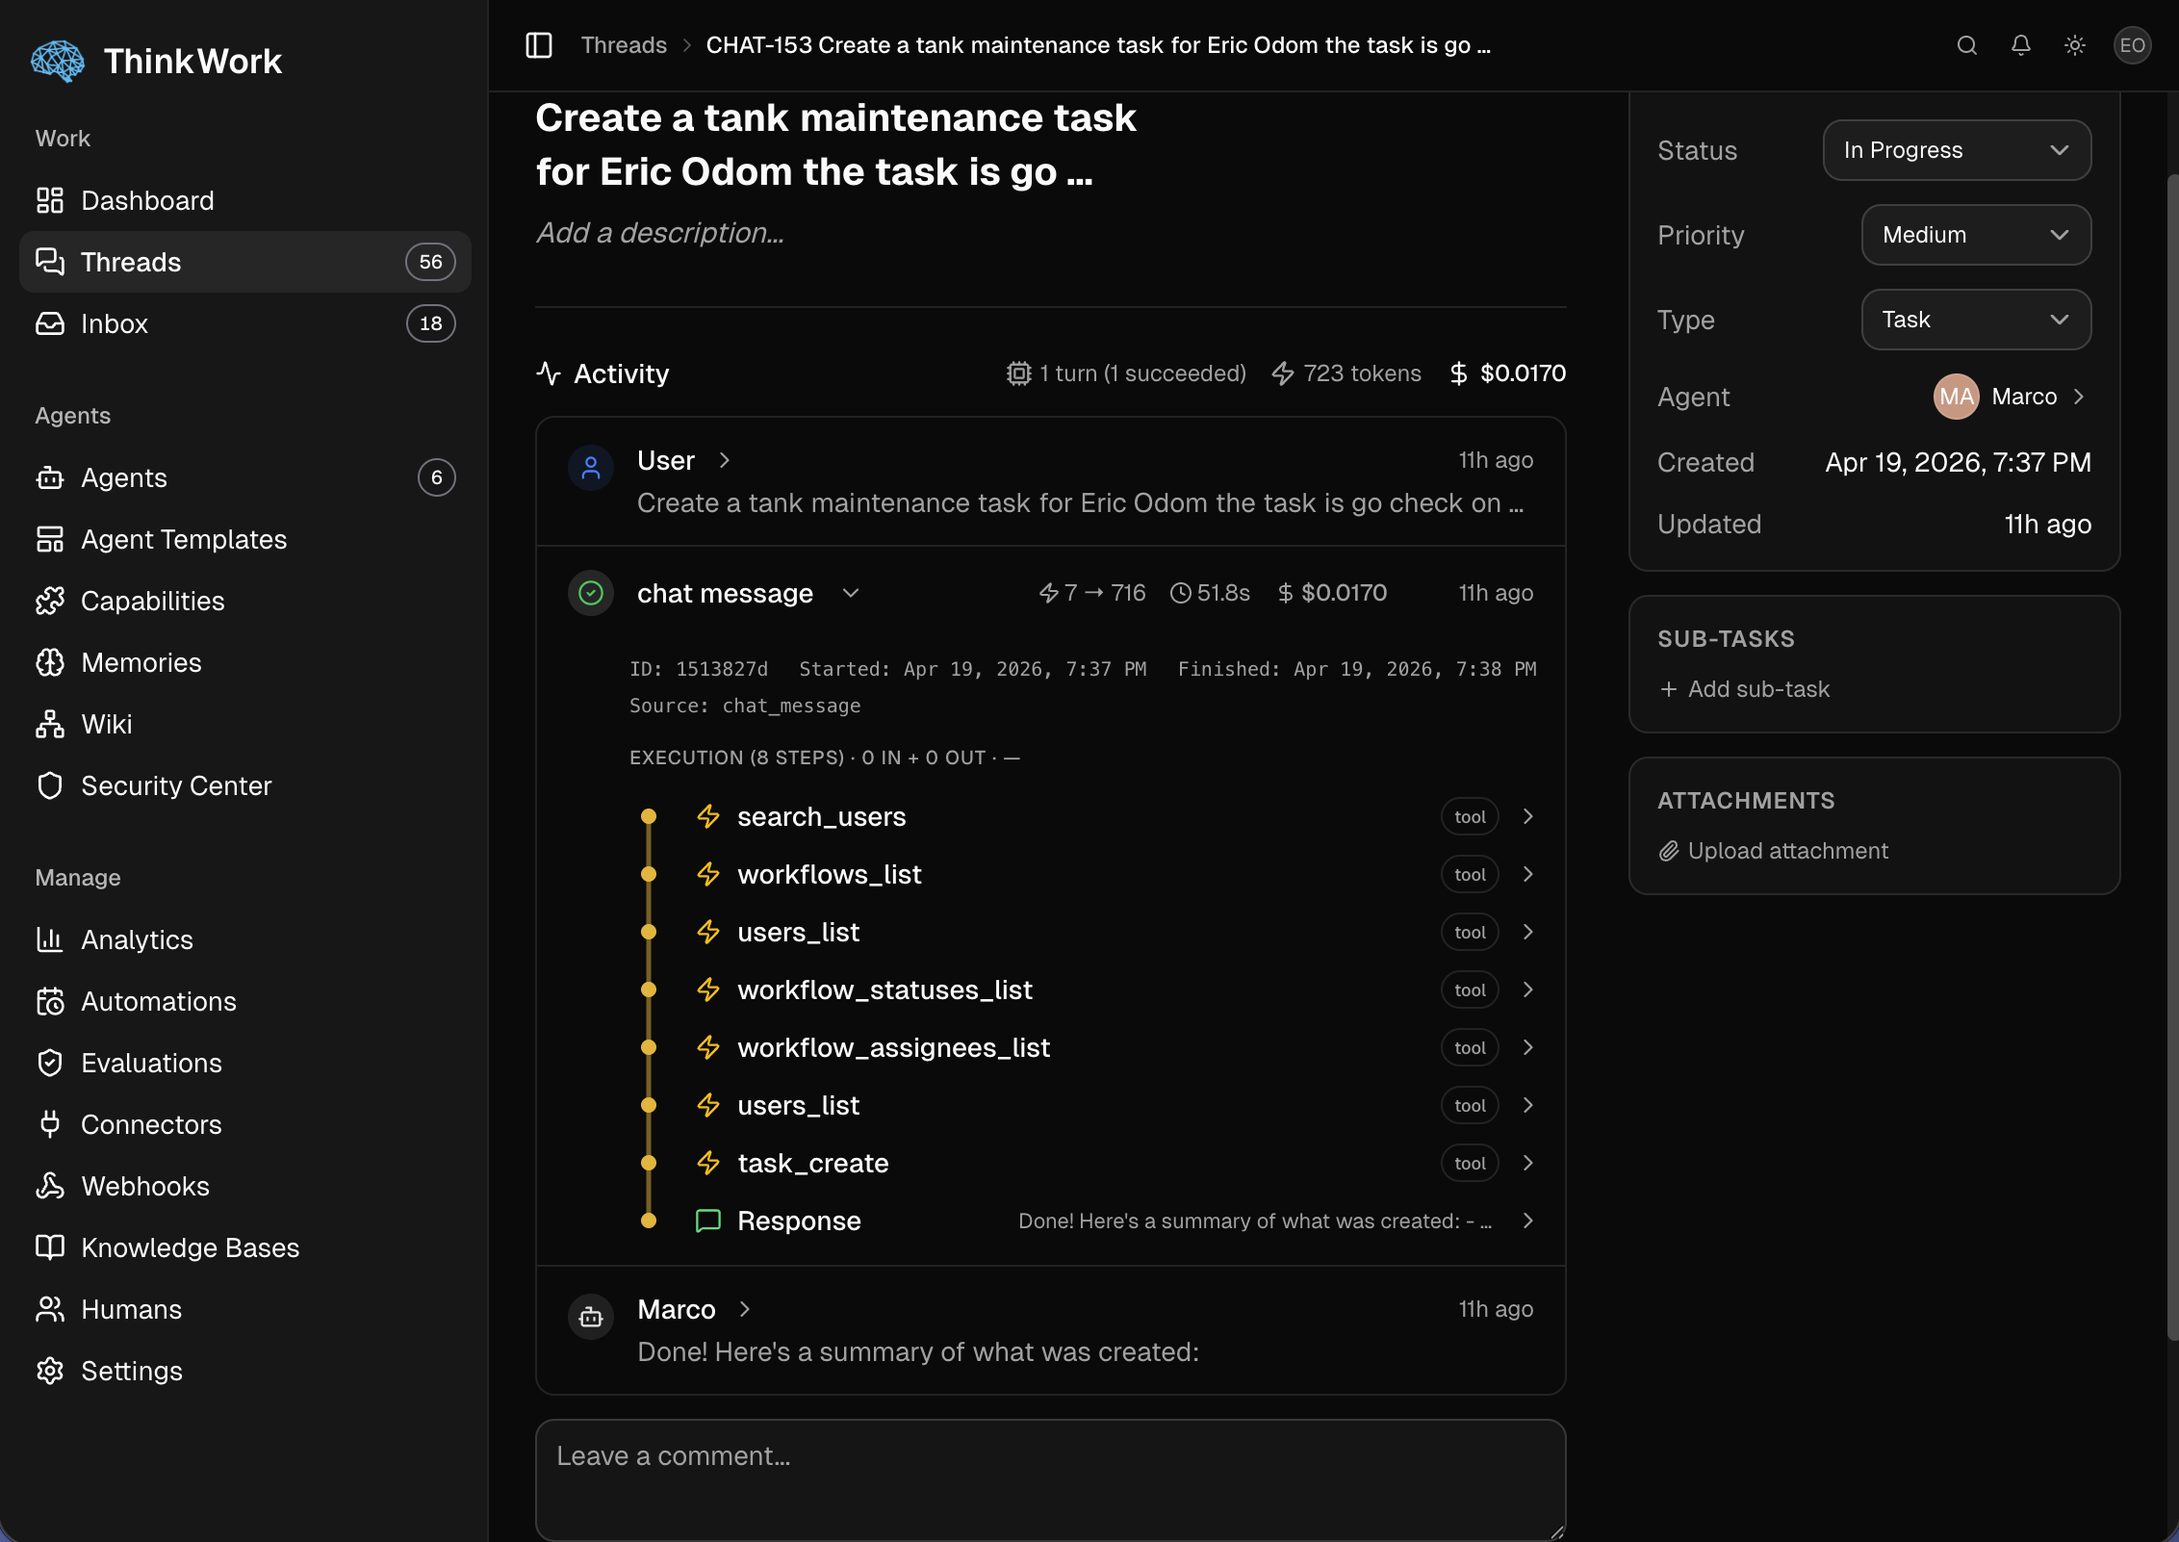
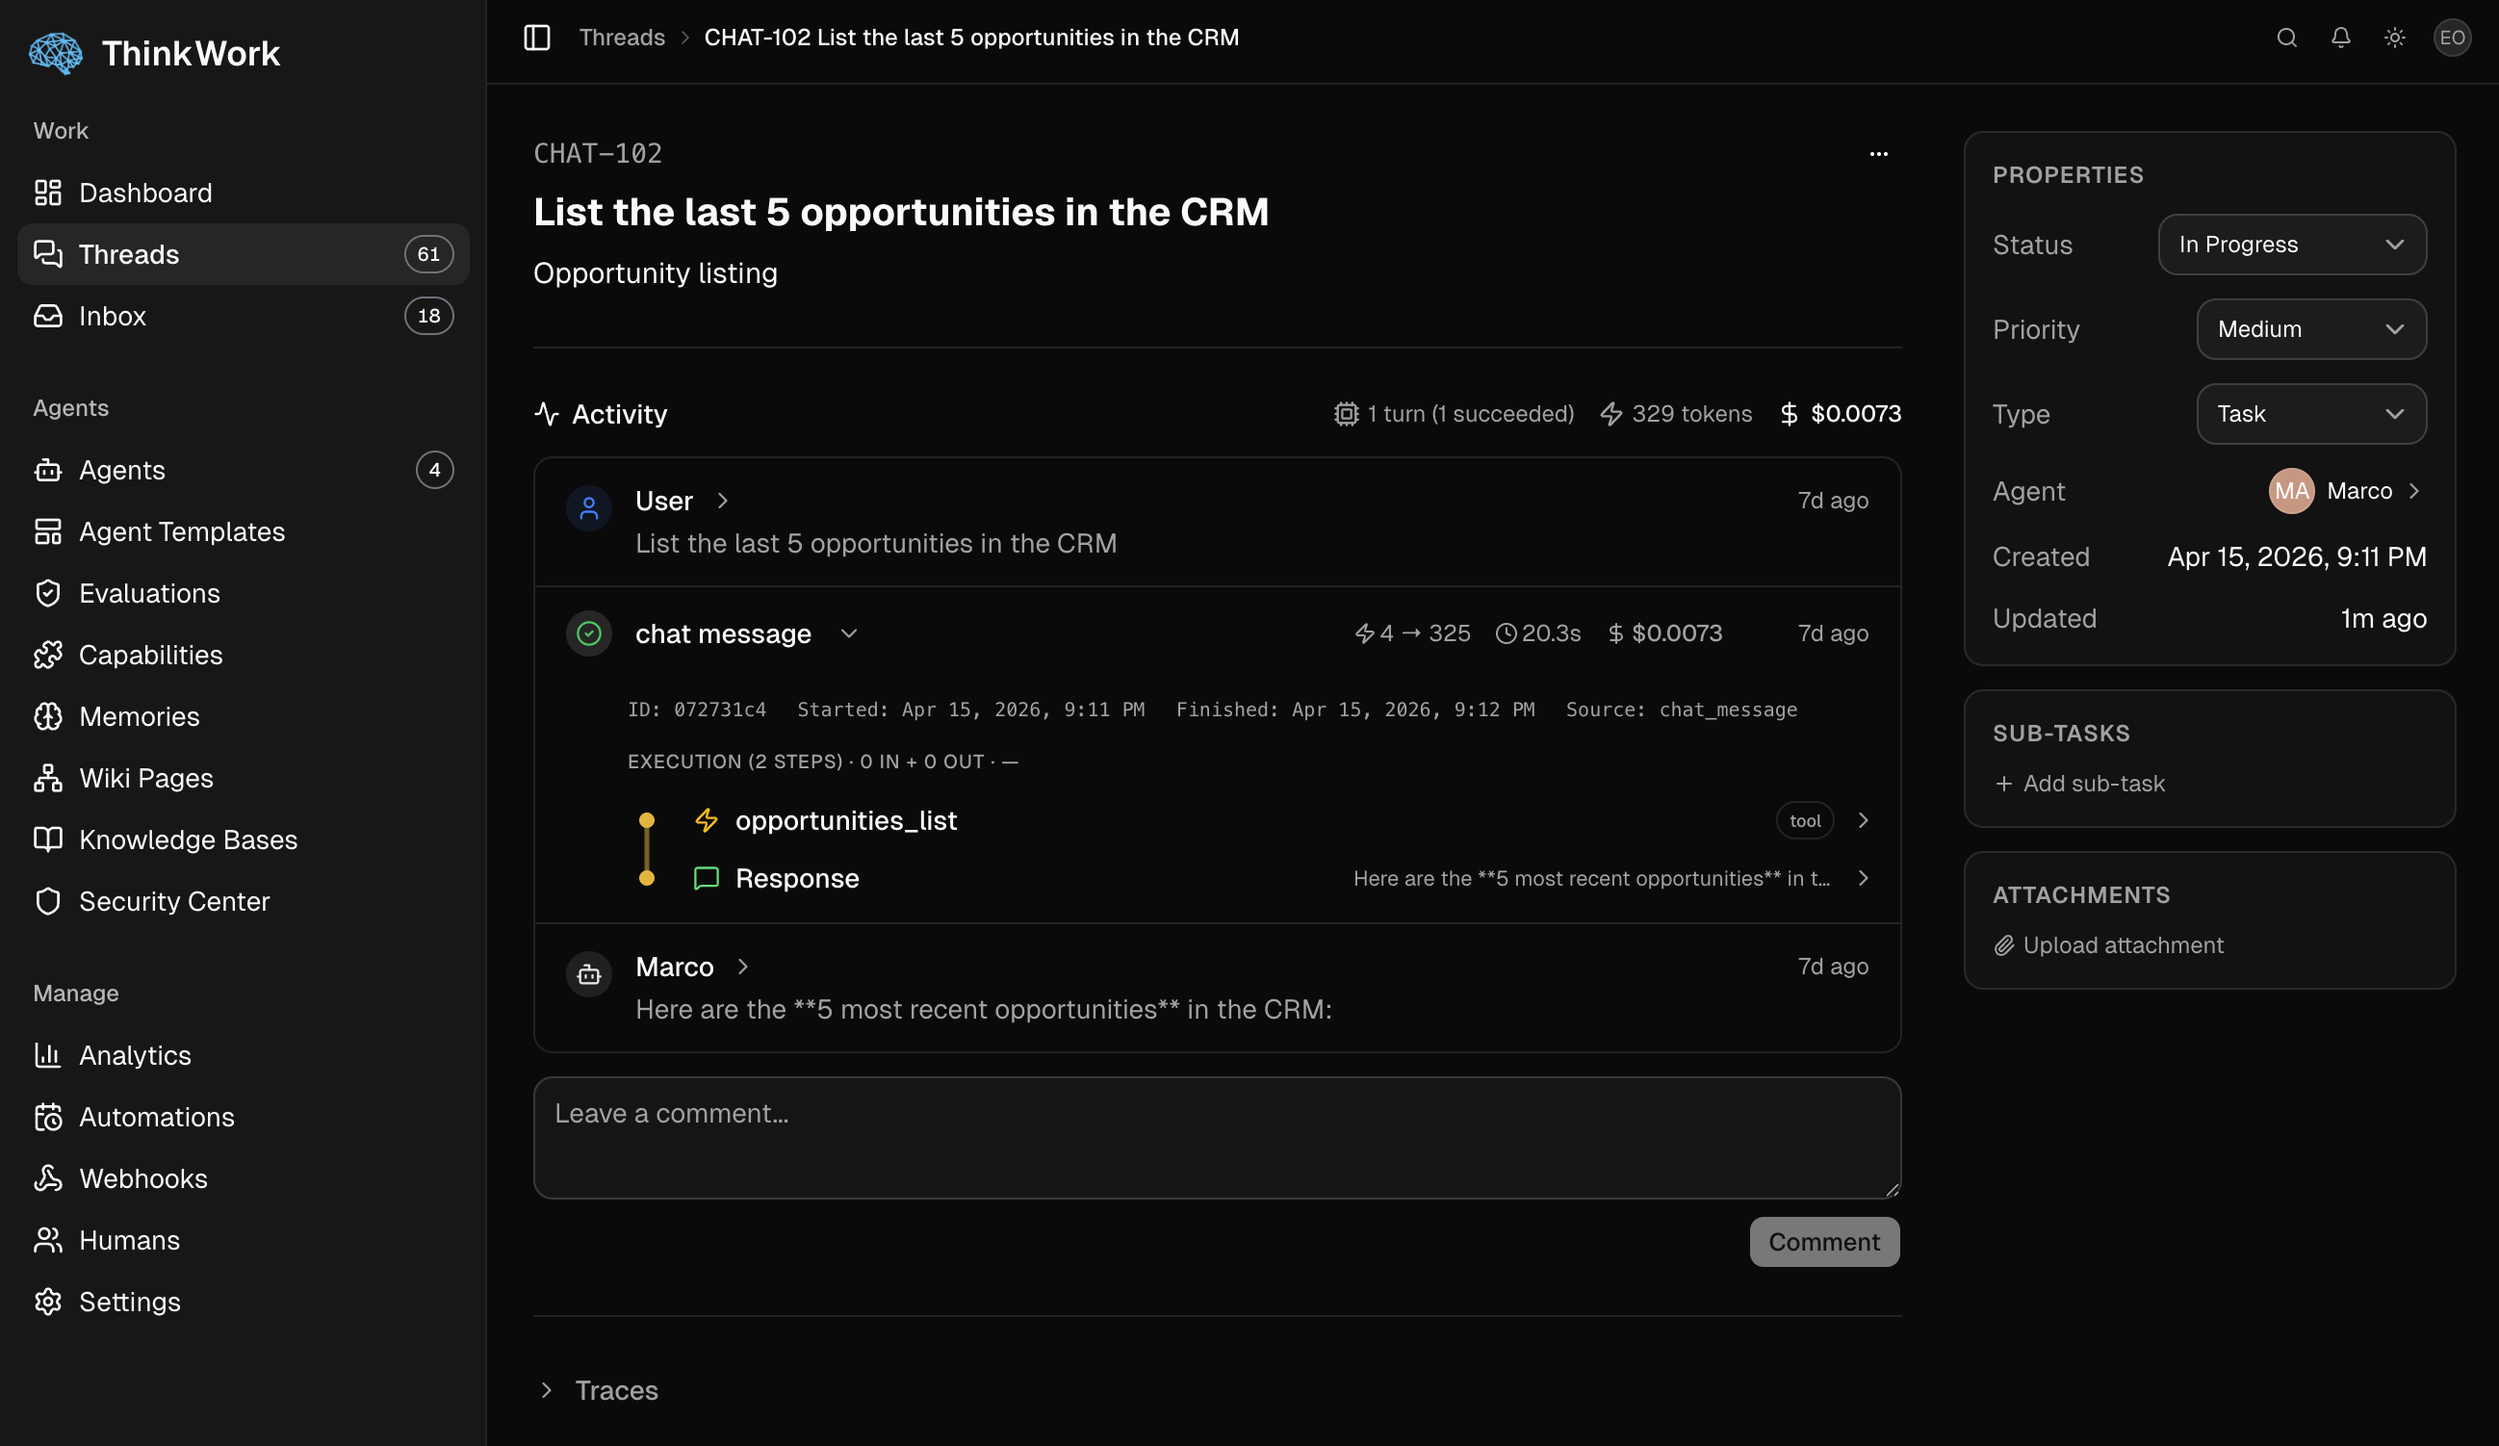
refactor(www): streamline three pre-screenshot sections + swap audit screenshot (#393)
- Delete AdoptionProblem; fold "third option" framing into a hero sub-lede
- Rewrite AdoptionJourney as a compact 4-step timeline strip (≤15 words per step)
- Tighten HowItWorks lede; rename headline to "Four primitives, one system harness."
- Add fourth Cost card: "Per-model breakdown" matching the Cost by Model panel
- Swap thread-detail screenshot to CHAT-102 opportunity listing; refresh alt text

Drops pre-screenshot prose from ~490 to ~180 words and lands the first
screenshot one section earlier. The three shapes (ProofStrip chips, Journey
timeline, HowItWorks primitive cards) now read as distinct semantic families
rather than three unrelated card grids.

diff --git a/apps/www/src/lib/copy.ts b/apps/www/src/lib/copy.ts
@@ -33,6 +33,8 @@ export const hero = {
   headlinePart1: "Start small. Build trust.",
   headlineAccent: "Scale AI safely.",
   lede: "The path from AI experiments to trusted AI work — visible work, governed expansion, and an AWS environment you own.",
+  thirdOption:
+    "A third path between banning AI and betting the company on it — gradual, governed, and signed off by security, cost, and audit from day one.",
   primaryCta: { label: "Read the docs", href: external.docs },
   secondaryCta: { label: "View on GitHub", href: external.github },
   headlineCandidates: [
@@ -79,50 +81,38 @@ export const proofStrip = [
   },
 ];
 
-export const adoption = {
-  eyebrow: "The third option",
-  headline:
-    "You shouldn't have to choose between banning AI and betting the company on it.",
-  lede: "Most organizations are being pushed toward one of two bad options. ThinkWork is the third — a gradual, governed path your security, cost, and audit teams can sign off on from day one.",
-  bullets: [
-    "Option one — block AI entirely, then watch shadow adoption spread through back channels anyway.",
-    "Option two — adopt faster than controls can keep up, without audit trail, ownership, or cost attribution.",
-    "Option three — adopt AI gradually, prove value early, and expand safely as trust grows.",
-  ],
-};
-
 export const journey = {
   eyebrow: "The AI adoption journey",
   headline: "A practical path to AI adoption.",
-  lede: "Start with one useful assistant in one real workflow. Keep every action visible in threads. Carry context forward with memory. Enforce limits with templates, budgets, and evaluations. Expand the role of AI as trust grows — without changing the governance model underneath.",
+  lede: "Start small, keep every action visible, expand as trust grows — without changing the governance model underneath.",
   steps: [
     {
       n: "01",
       title: "Start with small wins",
-      lede: "Begin with one assistant, one workflow, one team. Not full autonomy, not a moonshot — useful work like triaging inbound requests, drafting responses, summarizing work, routing tasks, or assisting inside a defined process.",
+      lede: "One assistant, one workflow, one team. Pilot without a platform bet.",
     },
     {
       n: "02",
       title: "Build trust through visible work",
-      lede: "Every action runs inside a thread with history, attribution, and audit. Memory carries context forward. Templates define what each agent can access and do. Budgets and evaluations keep adoption grounded.",
+      lede: "Every action lives in a thread — attributed, audited, inspectable.",
     },
     {
       n: "03",
       title: "Expand as confidence grows",
-      lede: "As teams see reliable results, assistants take on more responsibility, more system access, and bigger workflows — without changing the governance model.",
+      lede: "Assistants take on more scope as reliable results earn it.",
     },
     {
       n: "04",
       title: "Keep the harness yours",
-      lede: "As AI becomes more important, the walls around it matter more. Your runtime, data, audit trail, and memory stay inside your AWS account.",
+      lede: "Runtime, data, audit trail, and memory stay inside your boundary.",
     },
   ],
 };
 
 export const howItWorks = {
   eyebrow: "How ThinkWork works",
-  headline: "Four primitives, one system.",
-  lede: "Threads, memory, templates, and controls — built into the runtime, not bolted on later. Each primitive is a named surface your team can inspect, govern, and expand.",
+  headline: "Four primitives, one system harness.",
+  lede: "Threads, memory, templates, and controls — built into the runtime, not bolted on later.",
   primitives: [
     {
       title: "Threads",
@@ -256,6 +246,10 @@ export const costControl = {
     {
       title: "Evaluated in context",
       desc: "Cost shows up next to the turn that produced it, so spend and quality travel together.",
+    },
+    {
+      title: "Per-model breakdown",
+      desc: "Tokens in, tokens out, and cost broken out per model, so high-spend calls surface next to the choice that drove them.",
     },
   ],
   caption: "Admin web · analytics · cost view",
